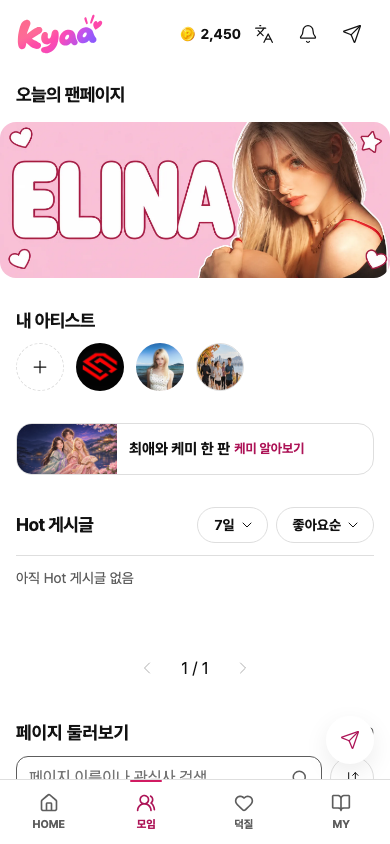
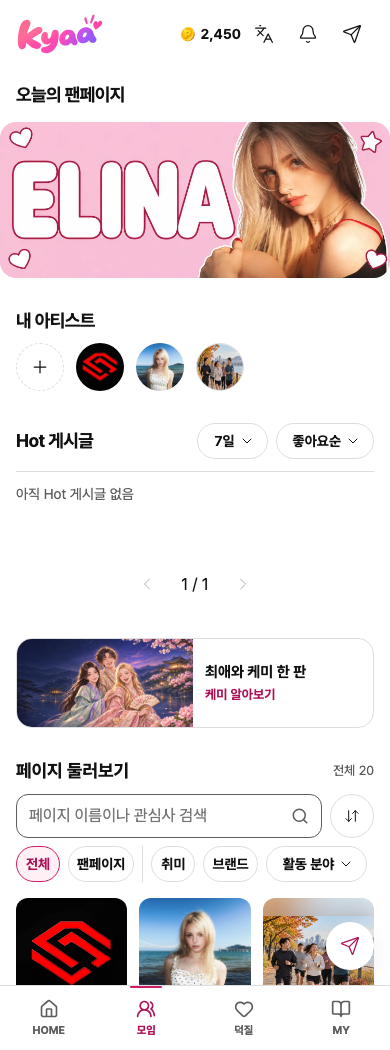
모임 케미 광고를 기존 모양으로 Hot 게시글 아래에 배치

diff --git a/apps/web/features/groups/ui/directory-top.module.css b/apps/web/features/groups/ui/directory-top.module.css
@@ -27,7 +27,6 @@
 
 /* 얇은 배너 캐러셀: 390 90px, 1440 120px. 띠 그림(원본 716×180 / 2720×240)이 있으면 꽉 채우고, 없으면 흰 바탕과 헤어라인에 썸네일. */
 .thin { position: relative; display: flex; height: 90px; box-sizing: border-box; align-items: stretch; margin-bottom: var(--fan-section-gap); overflow: hidden; border: 1px solid var(--color-line); border-radius: var(--radius-card, 12px); background: var(--color-canvas); }
-.thin:not([data-fill]) { height: 52px; }
 .thinFull { display: block; flex: 1; min-width: 0; height: 100%; }
 .thinFull picture, .thinFull img { display: block; width: 100%; height: 100%; }
 .thinFull img { object-fit: cover; object-position: center; }
@@ -35,15 +34,15 @@
 .thinFull, .thinSlide { touch-action: pan-y pinch-zoom; }
 .thinImage { display: block; flex: none; height: 100%; }
 .thinImage img { display: block; width: auto; height: 100%; }
-.thinCopy { display: flex; align-items: center; min-width: 0; gap: var(--space-1); padding-right: var(--space-2); }
-.thinTitle { display: -webkit-box; overflow: hidden; font-size: var(--fan-action-emphasis-size); font-weight: var(--fan-item-title-weight); line-height: 20px; -webkit-box-orient: vertical; -webkit-line-clamp: 1; }
-.thinAction { flex: none; color: var(--color-accent-ink); font-size: var(--fan-metadata-size); font-weight: var(--fan-item-title-weight); line-height: 18px; }
+.thinCopy { display: grid; min-width: 0; gap: var(--space-1); padding-right: var(--space-2); }
+.thinTitle { display: -webkit-box; overflow: hidden; font-size: var(--fan-action-emphasis-size); font-weight: var(--fan-item-title-weight); line-height: 20px; -webkit-box-orient: vertical; -webkit-line-clamp: 2; }
+.thinAction { color: var(--color-accent-ink); font-size: var(--fan-metadata-size); font-weight: var(--fan-item-title-weight); line-height: 18px; }
 .thinFull:focus-visible, .thinSlide:focus-visible { outline: 2px solid var(--color-focus); outline-offset: -2px; }
 .thinControls { display: flex; flex: none; align-items: center; color: var(--color-muted); font-size: var(--fan-badge-size); font-variant-numeric: tabular-nums; }
 .thin[data-fill] { border: 0; }
 .thin[data-fill] .thinControls { position: absolute; right: var(--space-2); bottom: var(--space-2); height: 36px; padding: 0 var(--space-1); border-radius: var(--radius-pill); background: var(--color-canvas); box-shadow: inset 0 0 0 1px var(--color-line); }
 @media (min-width: 64rem) {
-
+  .thin { height: 120px; }
   .thinSlide { gap: var(--space-6); }
   .thinTitle { display: block; font-size: var(--fan-item-title-size); line-height: 24px; text-overflow: ellipsis; white-space: nowrap; }
   .thinAction { font-size: var(--fan-action-label-size); }

diff --git a/apps/web/features/groups/ui/group-directory.tsx b/apps/web/features/groups/ui/group-directory.tsx
@@ -153,9 +153,9 @@ export function GroupDirectory({locale,initialOwned=false,banners=[],promoOrder=
     <header className={styles.discoveryIntro}><FanHeading as="h1">{c.title}</FanHeading></header>
     <CreatorPromoBanners locale={locale} order={promoOrder}/>
     <MyArtists locale={locale} loginPath={`/pages/groups?${directoryLoginQuery}`}/>
-    <ThinCarousel banners={banners} locale={locale}/>
     <div className={`${styles.layout} ${styles.discoveryLayout}`}><section className={styles.main} aria-label={t.explore} id="directory-explore" data-directory-explore="" data-filtered={holdHeight||undefined}>
       <HotPosts locale={locale}/>
+      <ThinCarousel banners={banners} locale={locale}/>
       <div className={styles.discoveryHeading}><h2>{t.explore}</h2>{!(search.trim()&&searchTab!=='artists')&&listData&&!resource.error&&<output aria-live="polite" className={styles.meta}>{t.all} {listedCount.toLocaleString(locale)}{listData.totalCount===undefined&&listData.nextCursor?'+':''}</output>}</div>
       <div className={directoryStyles.controls}>
       <form className={`${styles.search} ${directoryStyles.search}`} onSubmit={submit}><input className={`${styles.input} ${directoryStyles.searchInput}`} aria-label={t.searchPlaceholder} placeholder={t.searchPlaceholder} value={draft} onChange={e=>setDraft(e.target.value)} onCompositionStart={()=>setComposing(true)} onCompositionEnd={()=>setComposing(false)} maxLength={100}/><button className={directoryStyles.searchIcon} aria-label={t.search}><Search size={18}/></button></form>

diff --git a/apps/web/features/groups/ui/group-directory-layout.test.tsx b/apps/web/features/groups/ui/group-directory-layout.test.tsx
@@ -17,8 +17,8 @@ it.each(['?search=Ru','?type=fan','?type=hobby','?type=fan&artistRole=idol&searc
  history.replaceState(null,'',`/pages/groups${query}`);render(<GroupDirectory locale='ko'/>);
  expect(screen.getByRole('heading',{level:1,name:'팬페이지와 모임 찾기'})).toBeInTheDocument();
  expect(screen.getByTestId('banners')).toBeInTheDocument();
- // 순서: 내 아티스트 → 얇은 배너 → Hot 게시글 → 페이지 둘러보기.
- const order=[screen.getByTestId('my-artists'),screen.getByTestId('banners'),screen.getByTestId('hot-posts'),screen.getByRole('heading',{level:2,name:'페이지 둘러보기'})];
+ // 순서: 오늘의 팬페이지 → 내 아티스트 → Hot 게시글 → 케미 광고 → 페이지 둘러보기.
+ const order=[screen.getByRole('heading',{name:'오늘의 팬페이지'}),screen.getByTestId('my-artists'),screen.getByTestId('hot-posts'),screen.getByTestId('banners'),screen.getByRole('heading',{level:2,name:'페이지 둘러보기'})];
  order.slice(1).forEach((node,i)=>expect(order[i]!.compareDocumentPosition(node)&Node.DOCUMENT_POSITION_FOLLOWING).toBeTruthy());
  expect(screen.getByRole('heading',{level:2,name:'페이지 둘러보기'})).toBeInTheDocument();
  // The type and role filters only exist while no search is typed; a search swaps them for the artists/posts tabs.
